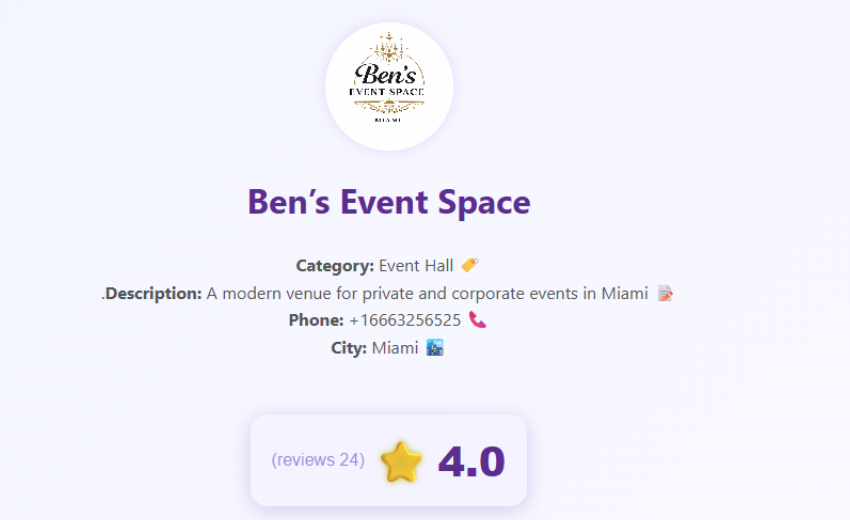
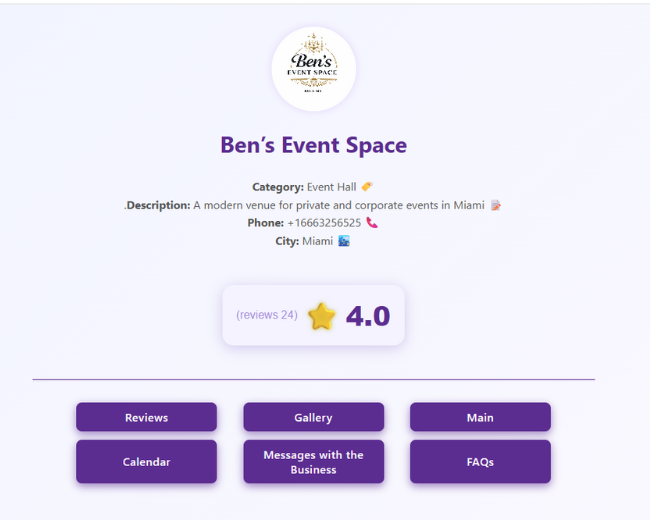
הודעת קומית

diff --git a/src/components/shared/BusinessProfileView.css b/src/components/shared/BusinessProfileView.css
@@ -61,19 +61,11 @@ html, body, #root {
 
 /* === לוגו ושם העסק === */
 .profile-logo-wrapper {
-  width: 120px;
-  height: 120px;
-  border-radius: 50%;
-  overflow: hidden;
-  background-color: #fff;
-  display: flex;
-  align-items: center;
-  justify-content: center;
-  margin: 0;
-  position: relative;
-  z-index: 10;
-  box-shadow: 0 0 12px rgba(180, 106, 241, 0.25);
+  width: 96px;
+  height: 96px;
+  box-shadow: 0 4px 14px rgba(180, 106, 241, 0.18);
 }
+
 .profile-logo {
   width: 100%;
   height: 100%;
@@ -81,14 +73,9 @@ html, body, #root {
   display: block;
 }
 .business-name {
-  margin: 0;
-  margin-top: 0.5rem;
-  font-size: 2rem;
-  color: #b46af1;  
-  text-align: center;
-  position: relative;
-  z-index: 1;
-  user-select: none;
+  font-size: 1.7rem;
+  font-weight: 700;
+  color: #5c2d91;
 }
 
 /* === תיאור וטלפון === */
@@ -106,17 +93,10 @@ html, body, #root {
 
 /* === Overall Rating Banner === */
 .overall-rating {
-  display: flex;
-  align-items: center;
-  justify-content: space-between;
-  padding: 0.75rem 1rem;
-  background: #fff;
-  border-radius: 12px;
-  box-shadow: 0 2px 8px rgba(0,0,0,0.05);
-  margin: 1.5rem 0;
-  width: 100%;
-  max-width: 700px;
-  user-select: none;
+  background: #f4f3ff;
+  box-shadow: none;
+  border: 1px solid #e6ddff;
+  border-radius: 14px;
 }
 .overall-rating .big-score {
   font-size: 1.5rem;
@@ -151,26 +131,16 @@ html, body, #root {
   margin-bottom: 1rem;
 }
 .profile-tabs .tab {
-  padding: 0.6rem 1rem;
-  border-radius: 20px;
-  background: #f0eaff;
-  color: #333;
-  border: none;
-  width: 100%;
-  max-width: 200px;
-  cursor: pointer;
-  transition: background-color 0.2s, box-shadow 0.2s;
-  user-select: none;
-  font-weight: 600;
-  font-size: 1rem;
+  border-radius: 12px;
+  background: #f5f2ff;
+  box-shadow: none;
 }
 .profile-tabs .tab:hover:not(.active) {
   background: #e3d5ff;
 }
 .profile-tabs .tab.active {
-  background: #b46af1;
-  color: #fff;
-  box-shadow: 0 0 10px rgba(180,106,241,0.6);
+  background: #5c2d91;
+  box-shadow: none;
 }
 
 /* === Tab Content Wrapper === */
@@ -204,8 +174,7 @@ html, body, #root {
   cursor: pointer;
 }
 .public-main-images img:hover {
-  transform: scale(1.05);
-  box-shadow: 0 8px 20px rgba(180, 106, 241, 0.6);
+  transform: translateY(-2px);
 }
 
 /* === ביקורות – מיכל הביקורות === */
@@ -253,9 +222,8 @@ html, body, #root {
   direction: rtl;
 }
 .review-card.improved:hover {
-  transform: translateX(4px);
-  background: #fafafa;
-  box-shadow: 0 4px 10px rgba(0,0,0,0.1);
+  transform: none;
+  box-shadow: 0 4px 12px rgba(0,0,0,0.08);
 }
 
 /* === סגנונות כותרת כרטיס ביקורת === */
@@ -614,12 +582,8 @@ html, body, #root {
 
 .public-main-images img,
 .gallery img {
-  border: 3px solid #5c2d91;        /* מסגרת בצבע סגול תואם */
-  border-radius: 12px;               /* פינות מעוגלות */
-  box-shadow: 0 4px 12px rgba(92, 45, 145, 0.4); /* צל עדין בגוון הסגול */
-  padding: 5px;                     /* רווח בין התמונה למסגרת */
-  transition: transform 0.3s ease, box-shadow 0.3s ease;
-  cursor: pointer;
+  border-radius: 14px;
+  box-shadow: 0 6px 18px rgba(0,0,0,0.12);
 }
 
 .public-main-images img:hover,
@@ -629,16 +593,6 @@ html, body, #root {
 }
 
 
-.reviews-summary {
-  display: flex;
-  justify-content: center;
-  padding: 16px 20px;
-  background: #f4f3ff;
-  border-radius: 16px;
-  box-shadow: 0 4px 20px rgba(121, 90, 192, 0.3);
-  font-family: 'Arial', sans-serif;
-  margin: 1rem auto;
-}
 
 .reviews-average {
   font-weight: 900;
